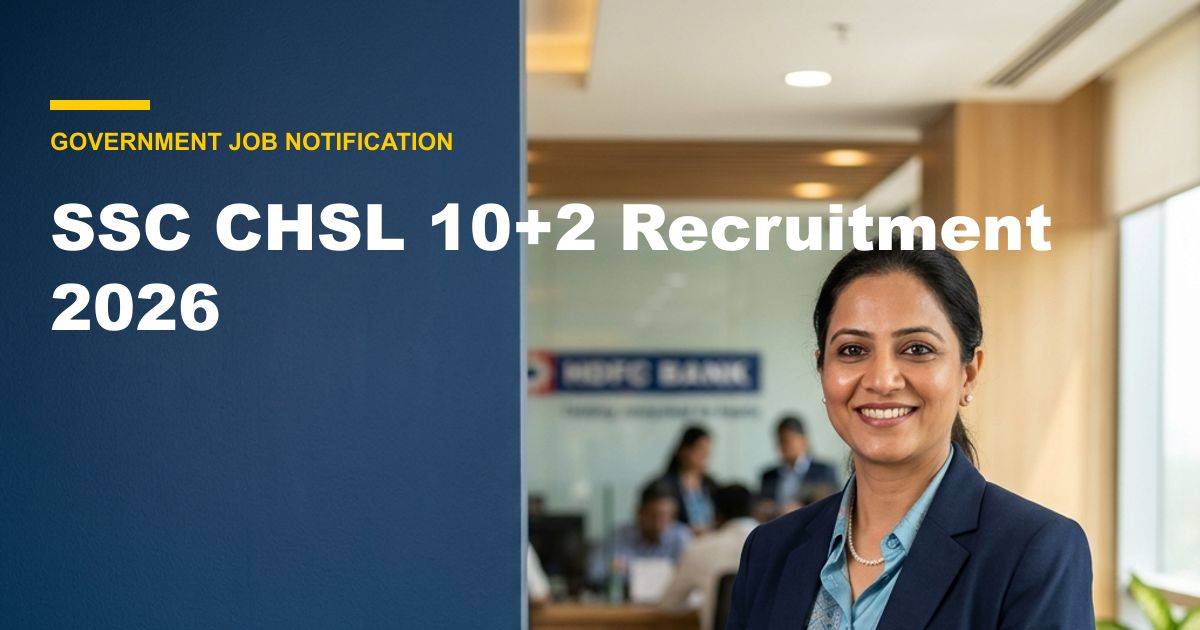
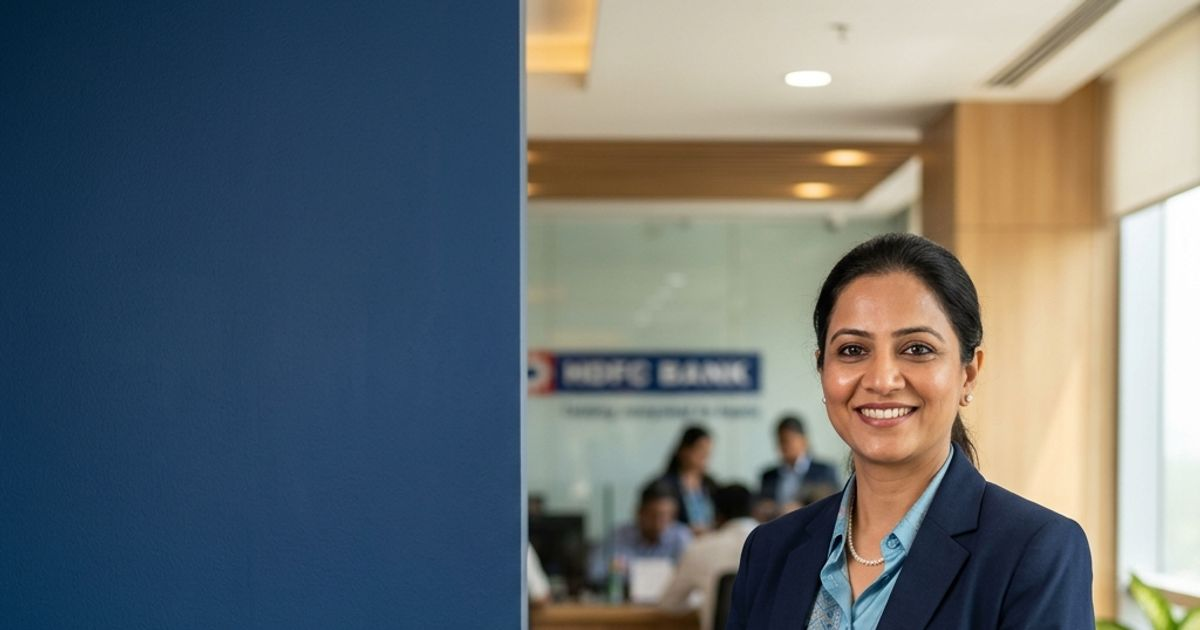
fix: add missing title fields for concentrix, correct date spelling for sort, remove badly cropped text from thumbnails

diff --git a/src/data/blogs.ts b/src/data/blogs.ts
@@ -21,15 +21,19 @@ export function getBlogImage(blog: BlogPost): string {
 }
 
 export const blogs: BlogPost[] = [
-  {
+    {
     "slug": "concentrix-voice-vs-non-voice-process",
+    "title": "कंसेंट्रिक्स वॉइस और नॉन-वॉइस प्रोसेस जॉब्स: सैलरी, योग्यता, इंटरव्यू और पूरी जानकारी",
+    "titleEn": "Concentrix Voice vs Non Voice Process: Jobs, Salary, Eligibility, Interview Process and More",
+    "excerpt": "Concentrix में फ्रेशर्स और अनुभवी उम्मीदवारों के लिए वॉइस और नॉन-वॉइस प्रोसेस जॉब्स की पूरी जानकारी। यहाँ सैलरी, काम के प्रकार और योग्यता के बारे में विस्तार से पढ़ें।",
+    "excerptEn": "A complete guide to Concentrix voice and non voice process jobs for freshers, including eligibility, salary, interview process, and work-from-home opportunities.",
     "title": "Concentrix Voice Process vs Non Voice Process: Complete Guide",
     "titleEn": "Concentrix Voice Process vs Non Voice Process: Complete Guide",
     "excerpt": "Everything about Concentrix voice and non-voice process jobs, including work profile, eligibility, salary, skills required, interview process, and work-from-home opportunities.",
     "excerptEn": "Everything about Concentrix voice and non-voice process jobs, including work profile, eligibility, salary, skills required, interview process, and work-from-home opportunities.",
     "content": "If you are looking for a Concentrix voice process or non voice process job, you may already know that Concentrix is one of the major companies in the customer experience and business services industry. The company offers jobs in customer service, technical support, chat support, email support, back-office operations, sales, digital operations and several other areas.\n\nFor freshers, Concentrix can be an option to build experience in customer service, communication, computer operations and business-process work. However, the exact eligibility, salary, working hours and job responsibilities depend on the particular process and vacancy.\n\nIn this article, we will explain everything about Concentrix voice process and non voice process jobs, including the work profile, eligibility, salary, skills required, interview process, typing requirements, work-from-home opportunities and how to apply.\n\n## What Is Concentrix Voice Process?\n\nA voice process is a job in which you communicate with customers primarily through telephone calls.\n\nIn a typical Concentrix voice process job, you may receive customer calls and help customers with their questions, complaints, account-related issues, technical problems or product and service queries.\n\nYour work may include understanding the customer's problem, checking information using company software, providing the correct solution, documenting the interaction and escalating the issue when required.\n\nA voice process is not simply about talking to customers. You normally have to speak with customers while simultaneously working on a computer system.\n\n### Responsibilities in a Concentrix Voice Process\n\nDepending on the project, your responsibilities can include:\n- Answering incoming customer calls\n- Handling customer questions and complaints\n- Understanding customer requirements\n- Providing information about products or services\n- Troubleshooting basic issues\n- Following company procedures and scripts\n- Updating customer information\n- Recording call details\n- Escalating complicated issues\n- Maintaining customer satisfaction\n- Meeting quality and performance targets\n\nSome voice processes may also involve outbound calls, where employees contact customers rather than waiting for incoming calls.\nThe exact work depends on the client and process assigned to you.\n\n## What Is Concentrix Non Voice Process?\n\nA non voice process is a job in which customer communication or business operations are primarily handled without telephone conversations.\n\nInstead of talking to customers, you may work through:\n- Live chat\n- Email\n- Support tickets\n- Back-office systems\n- Online forms\n- Data processing\n- Digital platforms\n- Internal software\n\nBecause the employee is communicating through text or computer systems, typing speed, typing accuracy, English grammar and written communication can be especially important.\n\nNon voice jobs can be attractive to candidates who are more comfortable with computer-based work than talking continuously on calls.\n\n### Types of Concentrix Non Voice Jobs\n\nNon voice is a broad term, and the actual job can vary considerably.\n\n#### Concentrix Chat Process\nIn a chat process, customers contact the company through an online chat platform. You read the customer's message, understand the problem and type the appropriate response.\nA typical chat workflow may be: Customer asks a question → You understand the issue → Check the account or knowledge base → Provide a solution → Document the interaction → Close or escalate the case.\n\n#### Concentrix Email Process\nIn an email process, customer problems are handled through email. You may receive a customer's complaint, question or service request and then research the issue before sending a professional response.\nBecause the communication is written, you should be comfortable explaining problems and solutions in simple, understandable language.\n\n#### Concentrix Ticket Process\nIn a ticket-based process, customer requests are converted into support tickets. You may need to investigate the ticket, check the available information, perform the required action and update the ticket with the resolution.\n\n#### Concentrix Back Office Process\nBack-office jobs generally involve computer-based operational work that may not require direct communication with customers. Depending on the project, the work could involve data processing, documentation, account updates, verification, and reports.\n\n## Concentrix Voice Process vs Non Voice Process\n\nThe main difference is the communication method.\n\n| Feature | Voice Process | Non Voice Process |\n|---|---|---|\n| **Communication** | Phone calls | Chat, email, tickets or digital systems |\n| **Speaking** | Very important | Less important |\n| **Typing** | Useful | Usually very important |\n| **Listening** | Very important | Less important |\n| **Written English** | Important | Very important |\n| **Customer interaction** | Mostly verbal | Mostly written |\n| **Multitasking** | Calls + computer systems | Multiple chats, tickets or applications |\n| **Common work** | Customer service, technical support | Chat, email, tickets, back office |\n\nA voice process may suit someone who enjoys speaking and interacting with customers. A non voice process may suit someone who prefers typing and computer-based communication.\n\n## Concentrix Jobs for Freshers\n\nMany people search for Concentrix jobs for freshers because customer-service and business-process roles can provide an entry point into the corporate and BPO industry.\n\nEligibility varies from one job to another. Some positions may accept candidates without previous industry experience, while other roles may require previous customer-service or technical experience.\n\n**Common requirements can include:**\n- Required educational qualification\n- Good communication skills\n- Basic computer knowledge\n- Typing ability\n- Problem-solving skills\n- Customer-handling skills\n- Language proficiency\n- Shift flexibility\n\n## Concentrix Salary\n\nOne of the most common questions among candidates is \"What is the salary in Concentrix?\"\nThere is no single fixed salary for all Concentrix jobs. Salary can depend on:\n- Job title\n- City\n- Experience\n- Process\n- Language\n- Shift\n- Technical requirements\n- Client account\n- Performance incentives\n\nEntry-level customer-support roles generally have a different salary structure from experienced or specialized positions. Candidates should therefore check the salary mentioned in the specific vacancy instead of relying on a general Concentrix salary figure found online.\n\n## What Skills Are Required?\n\n**For Voice Process:**\n- Spoken English: You should be able to communicate clearly and understand what customers are saying.\n- Listening Skills: Good listening is essential to understand the customer's actual problem.\n- Customer Handling: You need to remain calm and professional while following company procedures.\n- Problem Solving: Determine the appropriate next step for resolutions.\n\n**For Non Voice Process:**\n- Fast and accurate typing\n- Good English grammar and spelling\n- Reading comprehension\n- Attention to detail\n- Computer multitasking\n\n### Is Typing Speed Important for Concentrix?\nTyping speed can be important, particularly for chat process, email process and other non voice jobs. However, speed alone is not enough. For example, typing 50 words per minute with numerous mistakes is less useful than typing 40 words per minute accurately. Focus on: **Speed + Accuracy + Grammar + Reading + Computer skills**.\n\n## How to Prepare and Apply\n\n**For Voice Process:** Practice speaking in English every day, prepare a clear self-introduction, and practice role-playing customer service scenarios (Listen → Acknowledge → Question → Resolve).\n**For Non Voice Process:** Practice typing daily, focusing on accuracy first. Write professional email responses to simple mock complaints.\n\n### Concentrix Interview Process\nA typical customer-service recruitment process may contain several stages:\n1. **HR Round:** Basic questions about yourself, education, shift flexibility, and salary expectations.\n2. **Communication Round:** Evaluated on spoken communication (voice) or written communication and typing (non voice).\n3. **Operations Round:** Situation-based questions about customer service.\n4. **Process Assessment:** Additional assessments related to typing, technical knowledge, or language.\n\n### How to Apply\nSearch for vacancies through the official Concentrix careers platform. Make sure you check the job title, location (onsite vs remote), eligibility, language requirements, and shift requirements before applying. \n\n**Important:** Beware of Fake Concentrix Jobs! Do not pay money to anyone who promises a job. Official recruitment does not ask for security deposits.\n\n## Final Words\n\nConcentrix voice process and non voice process jobs cover a wide variety of customer-service and business-support opportunities. With consistent preparation, improving your typing and communication skills, and a clear understanding of the role, you can approach the Concentrix recruitment process with great confidence.\n",
     "contentEn": "If you are looking for a Concentrix voice process or non voice process job, you may already know that Concentrix is one of the major companies in the customer experience and business services industry. The company offers jobs in customer service, technical support, chat support, email support, back-office operations, sales, digital operations and several other areas.\n\nFor freshers, Concentrix can be an option to build experience in customer service, communication, computer operations and business-process work. However, the exact eligibility, salary, working hours and job responsibilities depend on the particular process and vacancy.\n\nIn this article, we will explain everything about Concentrix voice process and non voice process jobs, including the work profile, eligibility, salary, skills required, interview process, typing requirements, work-from-home opportunities and how to apply.\n\n## What Is Concentrix Voice Process?\n\nA voice process is a job in which you communicate with customers primarily through telephone calls.\n\nIn a typical Concentrix voice process job, you may receive customer calls and help customers with their questions, complaints, account-related issues, technical problems or product and service queries.\n\nYour work may include understanding the customer's problem, checking information using company software, providing the correct solution, documenting the interaction and escalating the issue when required.\n\nA voice process is not simply about talking to customers. You normally have to speak with customers while simultaneously working on a computer system.\n\n### Responsibilities in a Concentrix Voice Process\n\nDepending on the project, your responsibilities can include:\n- Answering incoming customer calls\n- Handling customer questions and complaints\n- Understanding customer requirements\n- Providing information about products or services\n- Troubleshooting basic issues\n- Following company procedures and scripts\n- Updating customer information\n- Recording call details\n- Escalating complicated issues\n- Maintaining customer satisfaction\n- Meeting quality and performance targets\n\nSome voice processes may also involve outbound calls, where employees contact customers rather than waiting for incoming calls.\nThe exact work depends on the client and process assigned to you.\n\n## What Is Concentrix Non Voice Process?\n\nA non voice process is a job in which customer communication or business operations are primarily handled without telephone conversations.\n\nInstead of talking to customers, you may work through:\n- Live chat\n- Email\n- Support tickets\n- Back-office systems\n- Online forms\n- Data processing\n- Digital platforms\n- Internal software\n\nBecause the employee is communicating through text or computer systems, typing speed, typing accuracy, English grammar and written communication can be especially important.\n\nNon voice jobs can be attractive to candidates who are more comfortable with computer-based work than talking continuously on calls.\n\n### Types of Concentrix Non Voice Jobs\n\nNon voice is a broad term, and the actual job can vary considerably.\n\n#### Concentrix Chat Process\nIn a chat process, customers contact the company through an online chat platform. You read the customer's message, understand the problem and type the appropriate response.\nA typical chat workflow may be: Customer asks a question → You understand the issue → Check the account or knowledge base → Provide a solution → Document the interaction → Close or escalate the case.\n\n#### Concentrix Email Process\nIn an email process, customer problems are handled through email. You may receive a customer's complaint, question or service request and then research the issue before sending a professional response.\nBecause the communication is written, you should be comfortable explaining problems and solutions in simple, understandable language.\n\n#### Concentrix Ticket Process\nIn a ticket-based process, customer requests are converted into support tickets. You may need to investigate the ticket, check the available information, perform the required action and update the ticket with the resolution.\n\n#### Concentrix Back Office Process\nBack-office jobs generally involve computer-based operational work that may not require direct communication with customers. Depending on the project, the work could involve data processing, documentation, account updates, verification, and reports.\n\n## Concentrix Voice Process vs Non Voice Process\n\nThe main difference is the communication method.\n\n| Feature | Voice Process | Non Voice Process |\n|---|---|---|\n| **Communication** | Phone calls | Chat, email, tickets or digital systems |\n| **Speaking** | Very important | Less important |\n| **Typing** | Useful | Usually very important |\n| **Listening** | Very important | Less important |\n| **Written English** | Important | Very important |\n| **Customer interaction** | Mostly verbal | Mostly written |\n| **Multitasking** | Calls + computer systems | Multiple chats, tickets or applications |\n| **Common work** | Customer service, technical support | Chat, email, tickets, back office |\n\nA voice process may suit someone who enjoys speaking and interacting with customers. A non voice process may suit someone who prefers typing and computer-based communication.\n\n## Concentrix Jobs for Freshers\n\nMany people search for Concentrix jobs for freshers because customer-service and business-process roles can provide an entry point into the corporate and BPO industry.\n\nEligibility varies from one job to another. Some positions may accept candidates without previous industry experience, while other roles may require previous customer-service or technical experience.\n\n**Common requirements can include:**\n- Required educational qualification\n- Good communication skills\n- Basic computer knowledge\n- Typing ability\n- Problem-solving skills\n- Customer-handling skills\n- Language proficiency\n- Shift flexibility\n\n## Concentrix Salary\n\nOne of the most common questions among candidates is \"What is the salary in Concentrix?\"\nThere is no single fixed salary for all Concentrix jobs. Salary can depend on:\n- Job title\n- City\n- Experience\n- Process\n- Language\n- Shift\n- Technical requirements\n- Client account\n- Performance incentives\n\nEntry-level customer-support roles generally have a different salary structure from experienced or specialized positions. Candidates should therefore check the salary mentioned in the specific vacancy instead of relying on a general Concentrix salary figure found online.\n\n## What Skills Are Required?\n\n**For Voice Process:**\n- Spoken English: You should be able to communicate clearly and understand what customers are saying.\n- Listening Skills: Good listening is essential to understand the customer's actual problem.\n- Customer Handling: You need to remain calm and professional while following company procedures.\n- Problem Solving: Determine the appropriate next step for resolutions.\n\n**For Non Voice Process:**\n- Fast and accurate typing\n- Good English grammar and spelling\n- Reading comprehension\n- Attention to detail\n- Computer multitasking\n\n### Is Typing Speed Important for Concentrix?\nTyping speed can be important, particularly for chat process, email process and other non voice jobs. However, speed alone is not enough. For example, typing 50 words per minute with numerous mistakes is less useful than typing 40 words per minute accurately. Focus on: **Speed + Accuracy + Grammar + Reading + Computer skills**.\n\n## How to Prepare and Apply\n\n**For Voice Process:** Practice speaking in English every day, prepare a clear self-introduction, and practice role-playing customer service scenarios (Listen → Acknowledge → Question → Resolve).\n**For Non Voice Process:** Practice typing daily, focusing on accuracy first. Write professional email responses to simple mock complaints.\n\n### Concentrix Interview Process\nA typical customer-service recruitment process may contain several stages:\n1. **HR Round:** Basic questions about yourself, education, shift flexibility, and salary expectations.\n2. **Communication Round:** Evaluated on spoken communication (voice) or written communication and typing (non voice).\n3. **Operations Round:** Situation-based questions about customer service.\n4. **Process Assessment:** Additional assessments related to typing, technical knowledge, or language.\n\n### How to Apply\nSearch for vacancies through the official Concentrix careers platform. Make sure you check the job title, location (onsite vs remote), eligibility, language requirements, and shift requirements before applying. \n\n**Important:** Beware of Fake Concentrix Jobs! Do not pay money to anyone who promises a job. Official recruitment does not ask for security deposits.\n\n## Final Words\n\nConcentrix voice process and non voice process jobs cover a wide variety of customer-service and business-support opportunities. With consistent preparation, improving your typing and communication skills, and a clear understanding of the role, you can approach the Concentrix recruitment process with great confidence.\n",
-    "date": "19 सितम्बर, 2026",
+    "date": "19 सितंबर, 2026",
     "dateEn": "19 September, 2026",
     "author": "TypeHindi Team",
     "category": "Exam Guide"
